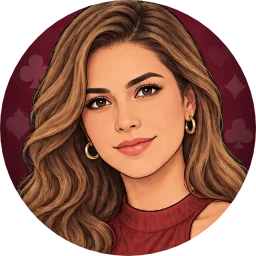
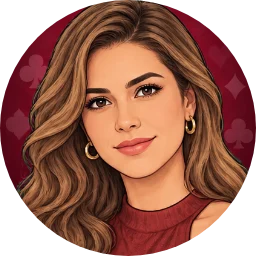
Avatares 3 a 8 con el mismo vino tinto (más vivo) que los avatares nuevos
El recoloreado conservaba la saturación del verde original, que en avatares2.png era más apagada (≈0,71 frente a
≈0,88): ahora el fondo de 3–8 se lleva a la luz y saturación de los nuevos.

diff --git a/CLAUDE.md b/CLAUDE.md
@@ -11,7 +11,8 @@ Juego de cartas multijugador (3 a 4 en la mesa; si faltan, completan bots) en el
   - `bot.js` jugador automático (solo ve su propia vista; nombres y avatares de los bots) · `progress.js` XP, niveles y fichas
   - `avatars.js` los 10 avatares (`client/public/avatars/avatar-N.webp`, recortados de `docs/referencias/avatares*.png`:
     1 y 2 de avatares4/5, 3–8 de avatares1/2, 9 y 10 de avatares3;
-    por dentro del aro dorado y con el fondo verde pasado a vino tinto, para que no se pierdan en el fieltro)
+    por dentro del aro dorado y con el fondo verde pasado a vino tinto, para que no se pierdan en el fieltro; el fondo
+    de 3–8 se llevó a la luz y saturación de los de avatares3/4/5 para que todos tengan el mismo vino tinto)
 - `test/` — pruebas de la lógica (`npm test` en la raíz, `node --test`).
 - `server/` — servidor Colyseus 0.18 (`PushGinRoom`). Pruebas con mocha (`cd server && npm test`).
 - `client/` — Vite + JS sin framework. `table.js` es la mesa; `main.js` las pantallas. Pruebas puras en `client/test` (`cd client && npm test`).
